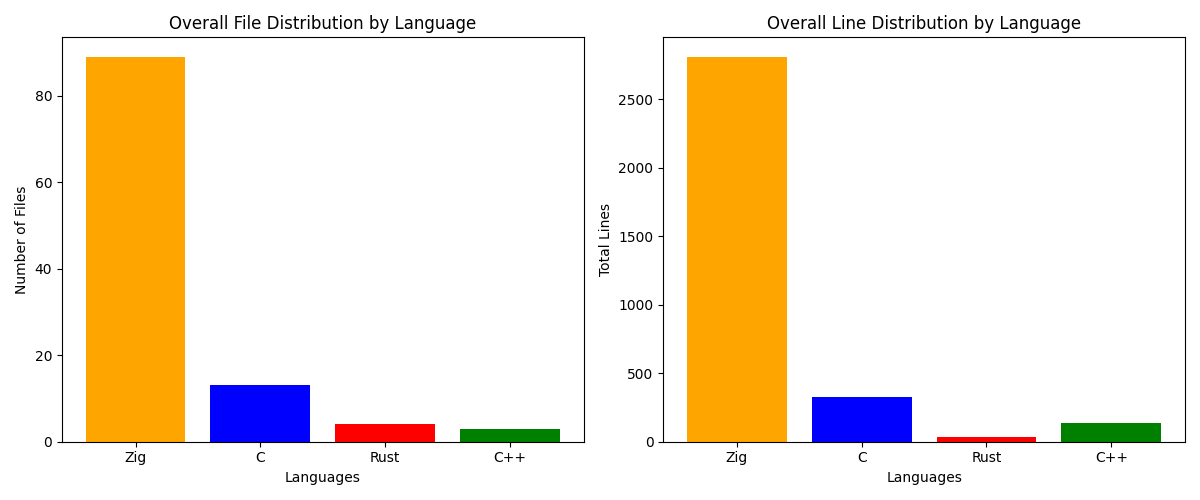
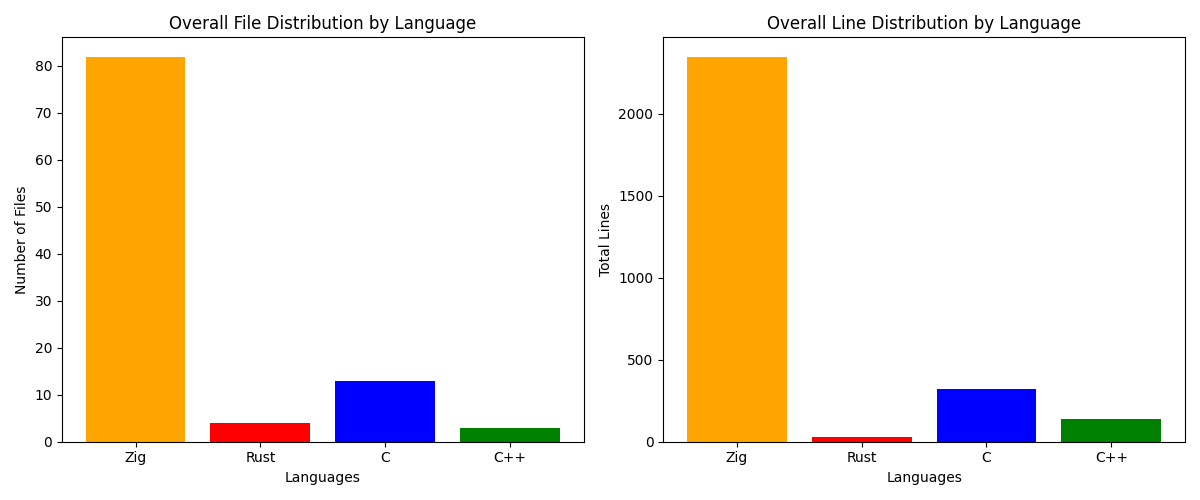
Update README.md with statistics

diff --git a/README.md b/README.md
@@ -45,7 +45,7 @@ Rust target: `rustup target add armv7-unknown-linux-gnueabihf`
 
 | Language   |   Number of Files |   Total Lines | Percentage of Total Files   | Percentage of Total Lines   |
 |------------|-------------------|---------------|-----------------------------|-----------------------------|
-| Zig        |                89 |          2812 | 81.65%                      | 85.13%                      |
-| C          |                13 |           323 | 11.93%                      | 9.78%                       |
-| Rust       |                 4 |            31 | 3.67%                       | 0.94%                       |
-| C++        |                 3 |           137 | 2.75%                       | 4.15%                       |
+| Zig        |                82 |          2350 | 80.39%                      | 82.72%                      |
+| Rust       |                 4 |            31 | 3.92%                       | 1.09%                       |
+| C          |                13 |           323 | 12.75%                      | 11.37%                      |
+| C++        |                 3 |           137 | 2.94%                       | 4.82%                       |
